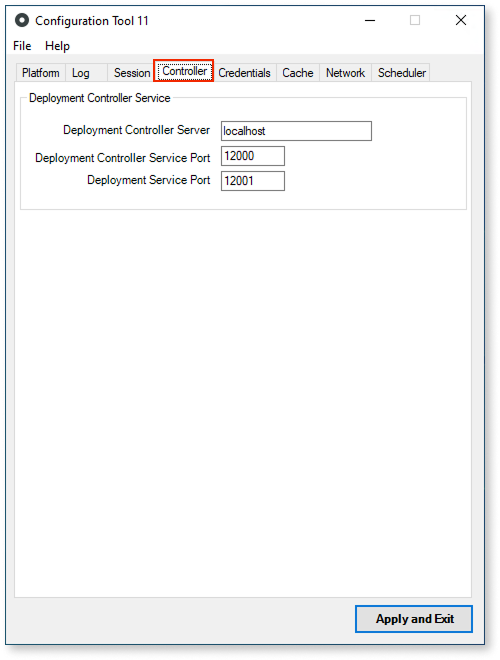
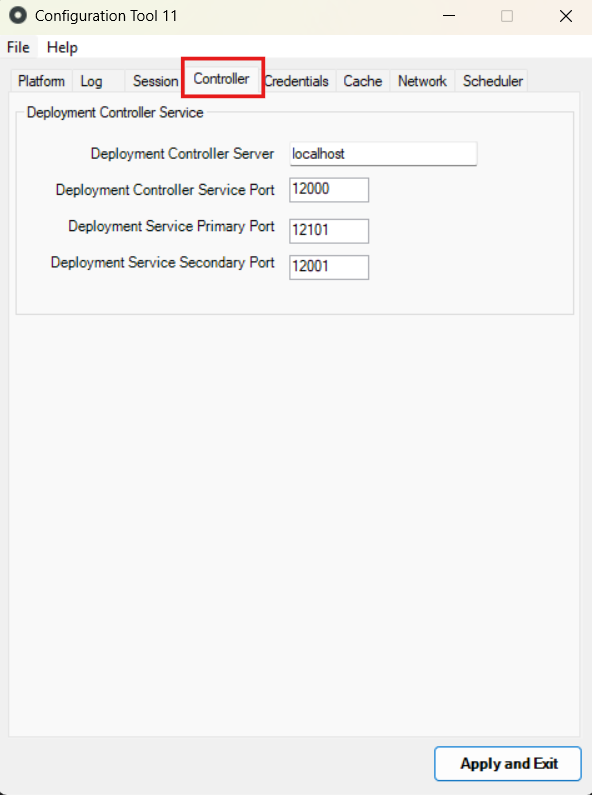
TK-20208 R11BRT-2235 Update ConfigurationTool with new Deploy Service port

diff --git a/src/ref/configuration-tool/tabs/cache.md b/src/ref/configuration-tool/tabs/cache.md
@@ -4,7 +4,7 @@ locale: en-us
 guid: f224026f-76d6-4b2b-b750-a0d2f52f609a
 app_type: traditional web apps, mobile apps, reactive web apps
 platform-version: o11
-figma:
+figma: https://www.figma.com/design/eFWRZ0nZhm5J5ibmKMak49/Reference?node-id=3301-100&p=f&t=YWpNVSB3J2vcO8FT-0
 tags: cache invalidation, service configuration, rabbitmq, security, deployment & operations
 audience:
   - platform administrators
@@ -15,6 +15,7 @@ outsystems-tools:
   - service center
 coverage-type:
   - remember
+isautopublish: true
 ---
 
 # Cache tab
@@ -23,7 +24,7 @@ In the **Cache** tab you define the basic settings for connecting to the Cache I
 
 ![Screenshot of the Cache tab in the Configuration Tool](images/cache-tab-ct.png "Cache tab")
 
-## Cache Invalidation Service section
+## Cache invalidation service section
 
 This section contains configuration parameters for the cache invalidation service.
 
@@ -36,7 +37,7 @@ This section contains configuration parameters for the cache invalidation servic
 | Password | Password of the user of the cache invalidation service used by the platform.<br/>_Note:_ Currently this password can't contain special characters (for example, `?`, `&`, `^`, `"`, `'`, `*`, `(`, `)`). | |
 | Enable TLS | When checked, enables the usage of secure connections between applications and the cache invalidation service | Unchecked |
 
-## Create/Upgrade Service button
+## Create/Upgrade service button
 
 To install or upgrade the cache invalidation service, click **Create/Upgrade Service**.
 
@@ -44,6 +45,6 @@ This button installs RabbitMQ and Erlang, the components used by the OutSystems 
 
 If these components were already installed by the OutSystems platform, the Configuration Tool updates their configuration according to the supplied values.
 
-## Test Connection button
+## Test connection button
 
 To verify that it's possible to connect to the cache invalidation service with the supplied configuration, click **Test Connection**.

diff --git a/src/ref/configuration-tool/tabs/controller.md b/src/ref/configuration-tool/tabs/controller.md
@@ -4,7 +4,7 @@ locale: en-us
 guid: 34809e50-82d5-4e93-a02e-a3bab8811b5d
 app_type: traditional web apps, mobile apps, reactive web apps
 platform-version: o11
-figma:
+figma: https://www.figma.com/design/eFWRZ0nZhm5J5ibmKMak49/Reference?node-id=3301-122&p=f&t=pRvxEDvINAxPgBYK-0
 tags: configuration, deployment, outsystems platform, server settings, application deployment
 audience:
   - platform administrators
@@ -15,6 +15,7 @@ outsystems-tools:
   - platform server
 coverage-type:
   - remember
+isautopublish: true
 ---
 
 # Controller tab
@@ -27,4 +28,5 @@ In the **Controller** tab you define how front-end servers and the deployment co
 | -------------- | -------------- | --------------- |
 | Deployment Controller Server | The hostname or IP address of the deployment controller server. | `localhost` |
 | Deployment Controller Service Port | Port used by the Deployment Controller Service, in the Deployment Controller Server. | `12000` |
-| Deployment Service Port | Port used by the Deployment Service, in the Front-end Servers. | `12001` |
+| Deployment Service Primary Port | Primary port used by the Deployment Service, in the Front-end Servers. | `12101` |
+| Deployment Service Secondary Port | Secondary port used by the Deployment Service, in the Front-end Servers. | `12001` |

diff --git a/src/ref/configuration-tool/tabs/credentials.md b/src/ref/configuration-tool/tabs/credentials.md
@@ -4,7 +4,7 @@ locale: en-us
 guid: 065a2e85-acf4-4895-87fd-5f176f406932
 app_type: traditional web apps, mobile apps, reactive web apps
 platform-version: o11
-figma:
+figma: https://www.figma.com/design/eFWRZ0nZhm5J5ibmKMak49/Reference?node-id=3301-130&p=f&t=YWpNVSB3J2vcO8FT-0
 tags: security, password management, configuration management, platform administration, system settings
 audience:
   - platform administrators
@@ -12,6 +12,7 @@ outsystems-tools:
   - platform server
 coverage-type:
   - remember
+isautopublish: true
 ---
 
 # Credentials tab
@@ -20,7 +21,7 @@ The **Credentials** tab allows you to define or reset the password of the Platfo
 
 ![Screenshot of the Credentials tab in the Configuration Tool](images/credentials-tab-ct.png "Credentials tab")
 
-## Platform Server Administrator section
+## Platform server administrator section
 
 Define the password for the admin user of Platform Server in the **Password** and **Confirm Password** fields.
 

diff --git a/src/ref/configuration-tool/tabs/network.md b/src/ref/configuration-tool/tabs/network.md
@@ -4,7 +4,7 @@ locale: en-us
 guid: 8a4e8da5-fdb0-4112-a474-c1781f35d12c
 app_type: traditional web apps, mobile apps, reactive web apps
 platform-version: o11
-figma:
+figma: https://www.figma.com/design/eFWRZ0nZhm5J5ibmKMak49/Reference?node-id=3301-150&p=f&t=YWpNVSB3J2vcO8FT-0
 tags: network configuration, service center, ip configuration, security, deployment
 audience:
   - frontend developers
@@ -15,6 +15,7 @@ outsystems-tools:
   - service center
 coverage-type:
   - remember
+isautopublish: true
 ---
 
 # Network tab
@@ -23,7 +24,7 @@ The **Network** taballows you to clear the current internal network settings, an
 
 ![Screenshot of the Network tab in the Configuration Tool](images/network-tab-ct.png "Network tab")
 
-## Internal Network section
+## Internal network section
 
 When developing your applications, you can set resources such as web flows (groups of screens), and web services to be available only within your internal network. This configuration is [defined in Service Center](../../../security/configure-internal-network.md).
 

diff --git a/src/ref/configuration-tool/tabs/log-oracle.md b/src/ref/configuration-tool/tabs/log-oracle.md
@@ -14,9 +14,10 @@ outsystems-tools:
   - service studio
 coverage-type:
   - remember
+isautopublish: true
 ---
 
-# Log Tab in Oracle
+# Log tab in Oracle
 
 The following configurations are available in the **Log** tab when the **Database Provider** property is set to `Oracle`.
 

diff --git a/src/ref/configuration-tool/tabs/log.md b/src/ref/configuration-tool/tabs/log.md
@@ -4,7 +4,7 @@ locale: en-us
 guid: 1522f7b9-bb8e-4ef3-b4c5-25e110e89a68
 app_type: traditional web apps, mobile apps, reactive web apps
 platform-version: o11
-figma:
+figma: https://www.figma.com/design/eFWRZ0nZhm5J5ibmKMak49/Reference?node-id=3301-138&t=NHrjTY8KaPifZIK6-0
 tags: configuration management, database management, logging, application monitoring, performance optimization
 audience:
   - platform administrators
@@ -14,6 +14,7 @@ outsystems-tools:
   - service studio
 coverage-type:
   - remember
+isautopublish: true
 ---
 
 # Log tab

diff --git a/src/ref/configuration-tool/tabs/platform.md b/src/ref/configuration-tool/tabs/platform.md
@@ -4,7 +4,7 @@ locale: en-us
 guid: 8bd79c83-b59c-4dbe-894a-f12b24415318
 app_type: traditional web apps, mobile apps, reactive web apps
 platform-version: o11
-figma:
+figma: https://www.figma.com/design/eFWRZ0nZhm5J5ibmKMak49/Reference?node-id=3301-158&t=J88Buykho64iQCkv-0
 tags: database configuration, service studio, outsystems platform, application deployment, platform management
 audience:
   - platform administrators
@@ -14,6 +14,7 @@ outsystems-tools:
   - service studio
 coverage-type:
   - remember
+isautopublish: true
 ---
 
 # Platform tab

diff --git a/src/ref/configuration-tool/tabs/scheduler.md b/src/ref/configuration-tool/tabs/scheduler.md
@@ -4,7 +4,7 @@ locale: en-us
 guid: 311b549c-496e-40b8-9d2b-4cf8bfe87d1e
 app_type: traditional web apps, mobile apps, reactive web apps
 platform-version: o11
-figma:
+figma: https://www.figma.com/design/eFWRZ0nZhm5J5ibmKMak49/Reference?node-id=3302-165&p=f&t=6JEFvDLV2HMS4mvv-0
 tags: scheduler service, timer configuration, performance optimization, infrastructure configuration, port settings
 audience:
   - platform administrators
@@ -16,6 +16,7 @@ outsystems-tools:
   - service center
 coverage-type:
   - remember
+isautopublish: true
 ---
 
 # Scheduler tab

diff --git a/src/ref/configuration-tool/tabs/session.md b/src/ref/configuration-tool/tabs/session.md
@@ -4,7 +4,7 @@ locale: en-us
 guid: edfd47cf-ac05-450b-8823-ebc389345dc8
 app_type: traditional web apps, mobile apps, reactive web apps
 platform-version: o11
-figma:
+figma: https://www.figma.com/design/eFWRZ0nZhm5J5ibmKMak49/Reference?node-id=3302-173&p=f&t=zjxh0YlCbYVw1W5S-0
 tags: database configuration, session management, sql server, azure sql database, oracle database
 audience:
   - full stack developers
@@ -13,6 +13,7 @@ outsystems-tools:
   - service studio
 coverage-type:
   - remember
+isautopublish: true
 ---
 
 # Session tab